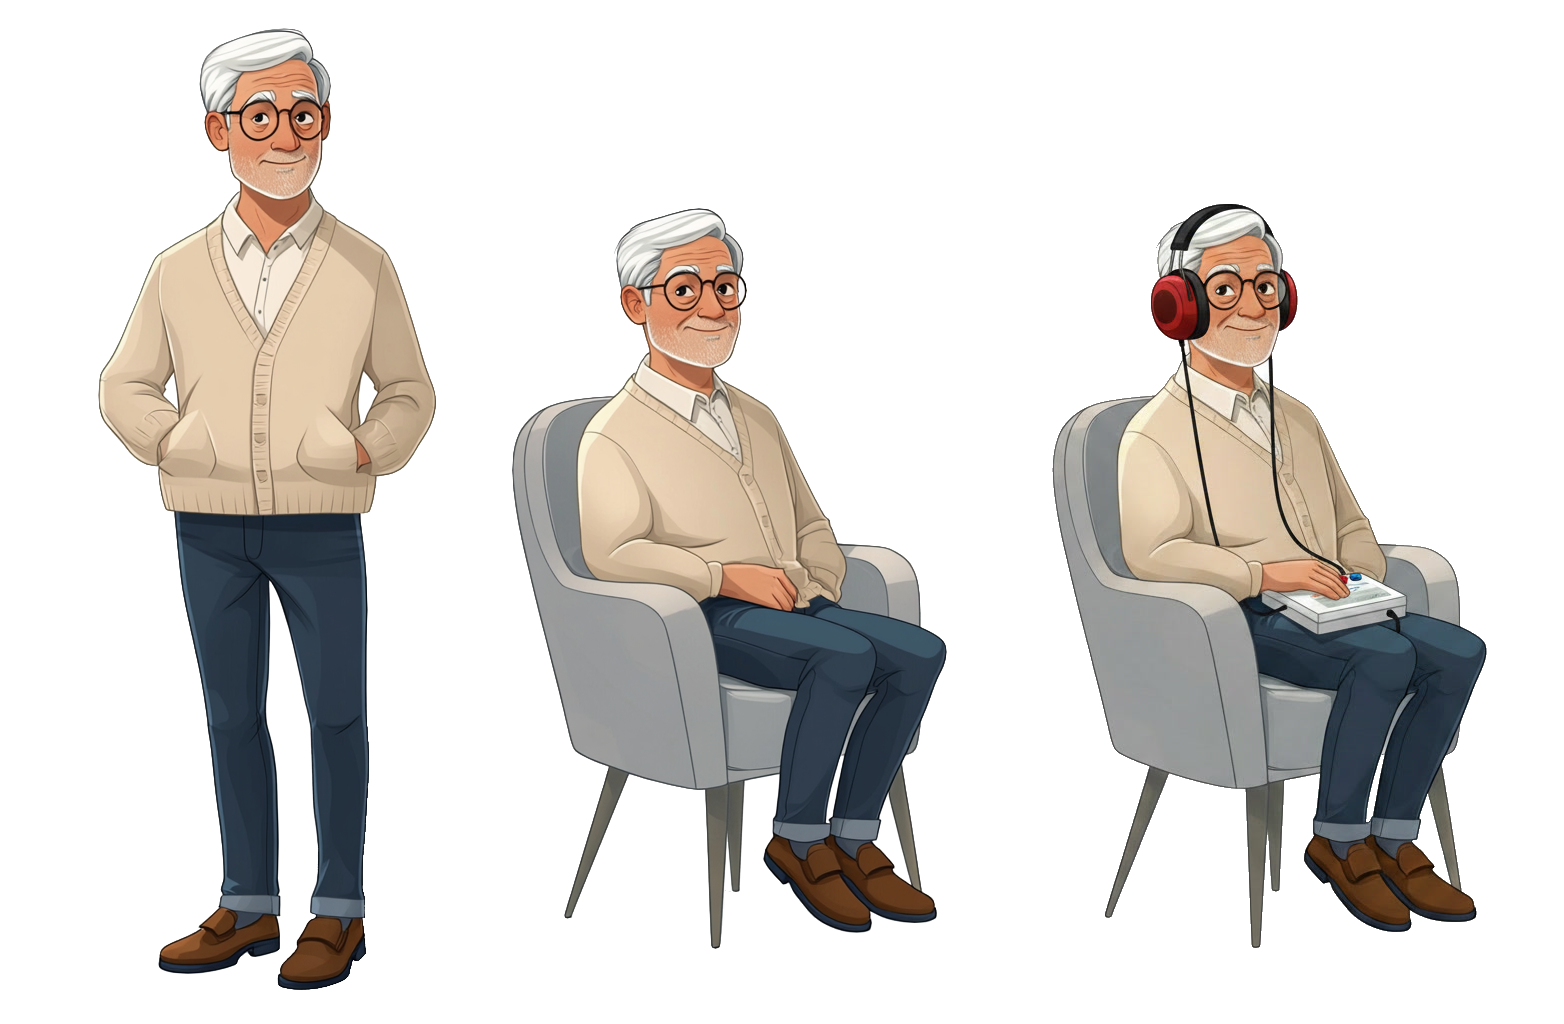
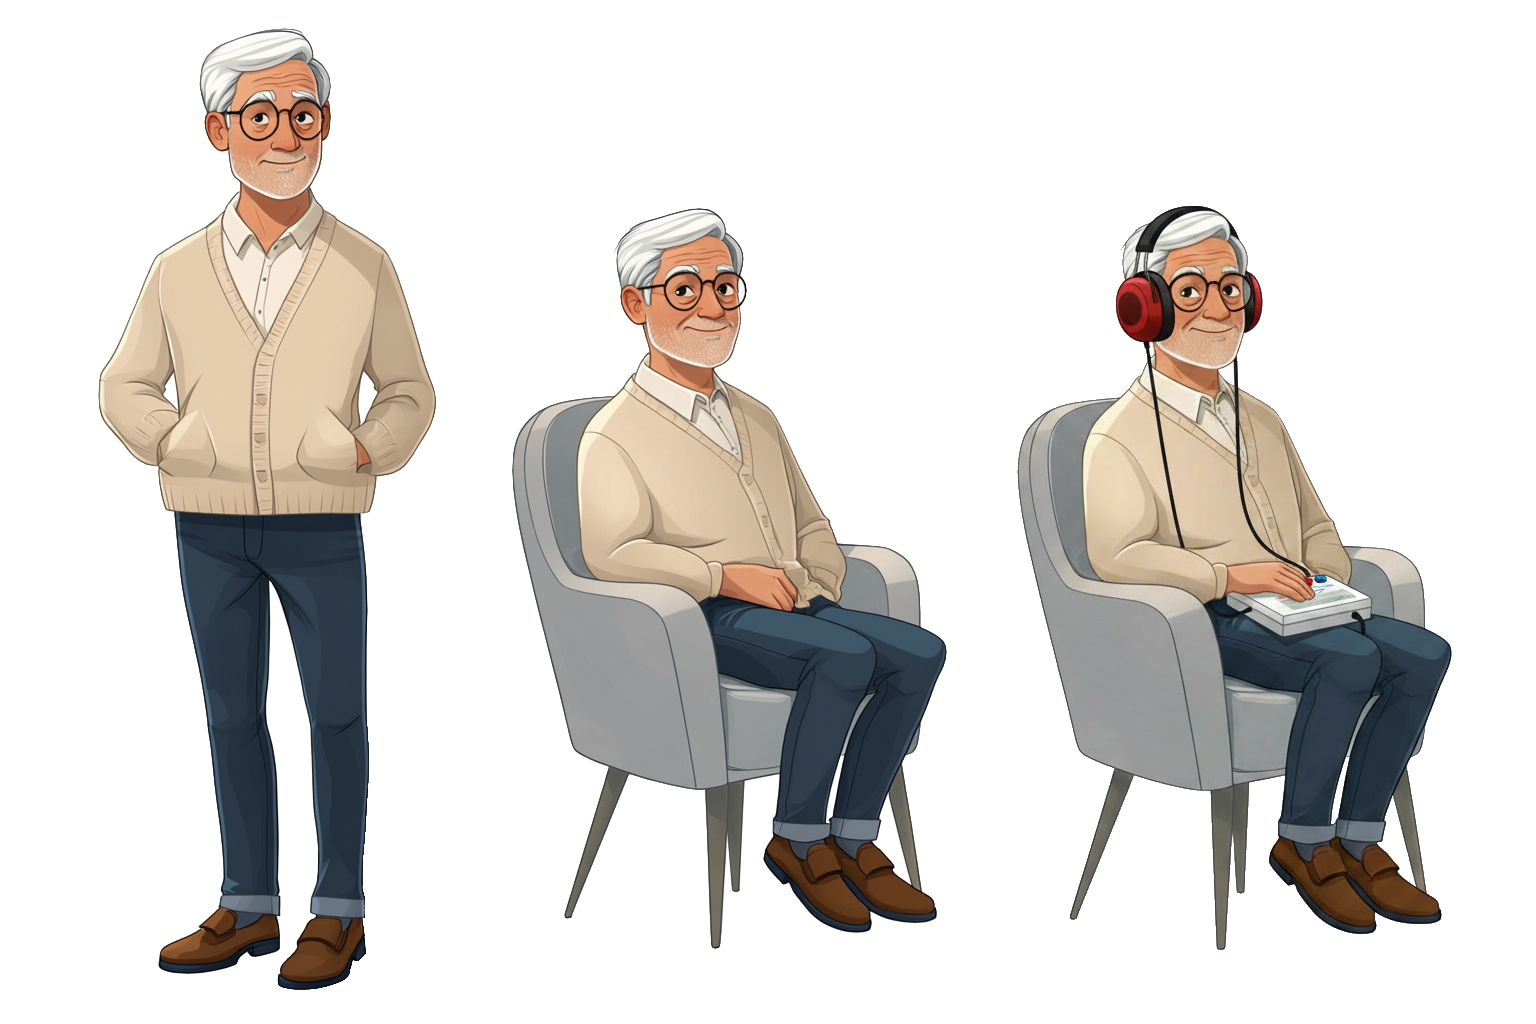
Add Futur image for Mme. R (1_5)

diff --git a/Assets/Scripts/PatientAnimation.cs b/Assets/Scripts/PatientAnimation.cs
@@ -74,7 +74,7 @@ public class PatientAnimation : MonoBehaviour{
     /// <param name="characterSprite">The sprite to display for the character.</param>
     private void SetSprite(Sprite characterSprite){
         imageCharacter.GetComponent<Image>().sprite = characterSprite;
-        imageCharacter.sizeDelta = new Vector2(characterSprite.rect.width, characterSprite.rect.height) / 2;
+        imageCharacter.sizeDelta = new Vector2(characterSprite.rect.width, characterSprite.rect.height) / 1.3f;
     }
 
     /// <summary>
